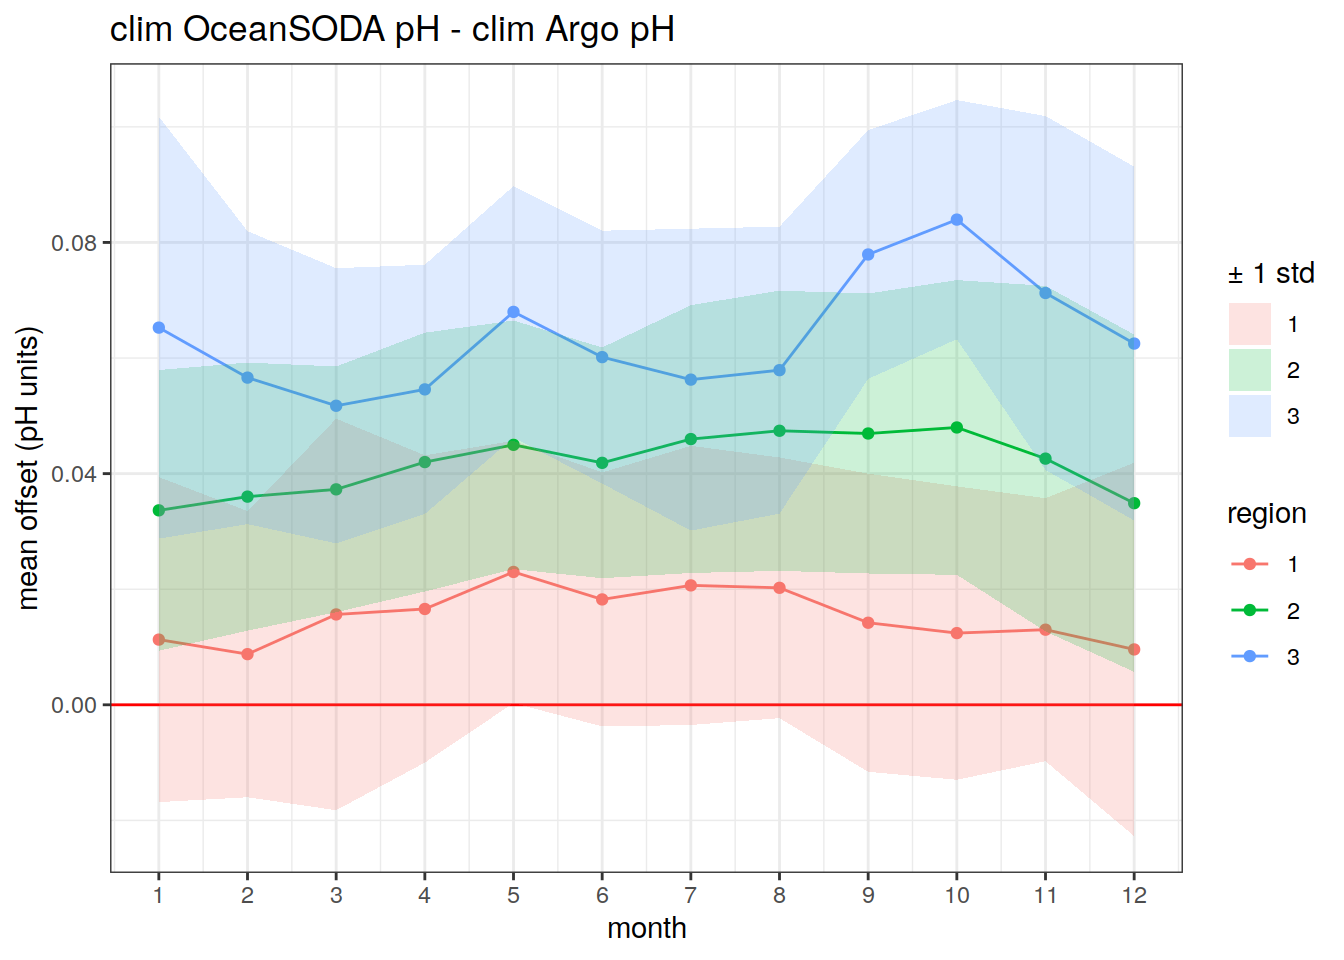
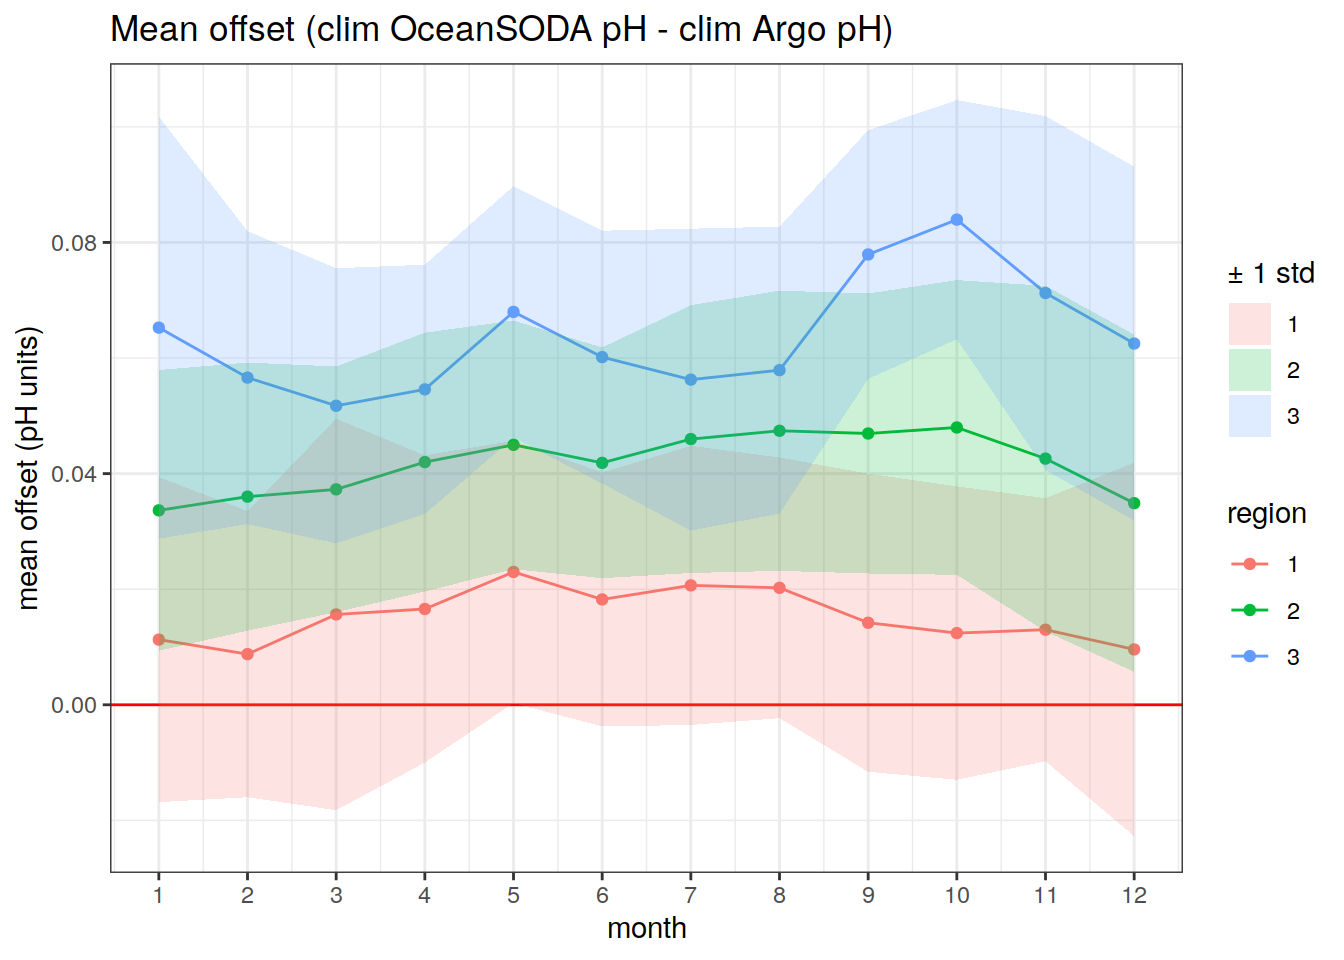
Build site.

Changed region(s): [[0.0625, 0.0, 0.6562, 0.0625]]

diff --git a/docs/oceanSODA_argo.html b/docs/oceanSODA_argo.html
@@ -411,7 +411,7 @@ div.tocify {
 
 <h1 class="title toc-ignore">OceanSODA-Argo pH</h1>
 <h4 class="author">Pasqualina Vonlanthen &amp; Jens Daniel Müller</h4>
-<h4 class="date">02 December, 2021</h4>
+<h4 class="date">03 December, 2021</h4>
 
 </div>
 
@@ -436,7 +436,7 @@ div.tocify {
 <div class="tab-content">
 <div id="summary" class="tab-pane fade in active">
 <p>
-<strong>Last updated:</strong> 2021-12-02
+<strong>Last updated:</strong> 2021-12-03
 </p>
 <p>
 <strong>Checks:</strong> <span class="glyphicon glyphicon-ok text-success" aria-hidden="true"></span> 7 <span class="glyphicon glyphicon-exclamation-sign text-danger" aria-hidden="true"></span> 0
@@ -527,16 +527,16 @@ This reproducible <a href="http://rmarkdown.rstudio.com">R Markdown</a> analysis
 <div class="panel panel-default">
 <div class="panel-heading">
 <p class="panel-title">
-<a data-toggle="collapse" data-parent="#workflowr-checks" href="#strongRepositoryversionstrongahrefhttpsgithubcomjensdanielmuellerbgcargorargodatatree65e4748680baee1e18ff2e579937c3cca9412d97targetblank65e4748a"> <span class="glyphicon glyphicon-ok text-success" aria-hidden="true"></span> <strong>Repository version:</strong> <a href="https://github.com/jens-daniel-mueller/bgc_argo_r_argodata/tree/65e4748680baee1e18ff2e579937c3cca9412d97" target="_blank">65e4748</a> </a>
+<a data-toggle="collapse" data-parent="#workflowr-checks" href="#strongRepositoryversionstrongahrefhttpsgithubcomjensdanielmuellerbgcargorargodatatree0829a920d98b0b61c8a8cb110df5ef423f434e88targetblank0829a92a"> <span class="glyphicon glyphicon-ok text-success" aria-hidden="true"></span> <strong>Repository version:</strong> <a href="https://github.com/jens-daniel-mueller/bgc_argo_r_argodata/tree/0829a920d98b0b61c8a8cb110df5ef423f434e88" target="_blank">0829a92</a> </a>
 </p>
 </div>
[2 lines of base64/hex data omitted]
 <div class="panel-body">
 <p>
 Great! You are using Git for version control. Tracking code development and connecting the code version to the results is critical for reproducibility.
 </p>
 <p>
-The results in this page were generated with repository version <a href="https://github.com/jens-daniel-mueller/bgc_argo_r_argodata/tree/65e4748680baee1e18ff2e579937c3cca9412d97" target="_blank">65e4748</a>. See the <em>Past versions</em> tab to see a history of the changes made to the R Markdown and HTML files.
+The results in this page were generated with repository version <a href="https://github.com/jens-daniel-mueller/bgc_argo_r_argodata/tree/0829a920d98b0b61c8a8cb110df5ef423f434e88" target="_blank">0829a92</a>. See the <em>Past versions</em> tab to see a history of the changes made to the R Markdown and HTML files.
 </p>
 <p>
 Note that you need to be careful to ensure that all relevant files for the analysis have been committed to Git prior to generating the results (you can use <code>wflow_publish</code> or <code>wflow_git_commit</code>). workflowr only checks the R Markdown file, but you know if there are other scripts or data files that it depends on. Below is the status of the Git repository when the results were generated:
@@ -590,6 +590,40 @@ Message
 </tr>
 </thead>
 <tbody>
+<tr>
+<td>
+Rmd
+</td>
+<td>
+<a href="https://github.com/jens-daniel-mueller/bgc_argo_r_argodata/blob/0829a920d98b0b61c8a8cb110df5ef423f434e88/analysis/oceanSODA_argo.Rmd" target="_blank">0829a92</a>
+</td>
+<td>
+pasqualina-vonlanthendinenna
+</td>
+<td>
+2021-12-03
+</td>
+<td>
+updated offsets and divergent color scales
+</td>
+</tr>
+<tr>
+<td>
+html
+</td>
+<td>
+<a href="https://rawcdn.githack.com/jens-daniel-mueller/bgc_argo_r_argodata/6a5024ee564d229ed2a8fbd6e7fb6d457ac1af27/docs/oceanSODA_argo.html" target="_blank">6a5024e</a>
+</td>
+<td>
+pasqualina-vonlanthendinenna
+</td>
+<td>
+2021-12-02
+</td>
+<td>
+Build site.
+</td>
+</tr>
 <tr>
 <td>
 Rmd
@@ -820,7 +854,7 @@ argo &lt;- read_rds(file = paste0(path_argo_preprocessed, &quot;/ph_surface_1x1.
          -c(direction:platform_type),
          -c(firmware_version, wmo_inst_type, positioning_system, config_mission_number))
 
-# for plotting later, load in region and coastline information 
+# for plotting later, load in region and coastline information  
 region_masks_all_seamask_2x2 &lt;- read_rds(file = paste0(
   path_argo_preprocessed, &quot;/region_masks_all_seamask_2x2.rds&quot;))
 
@@ -1331,6 +1365,17 @@ Date
 <tbody>
 <tr>
 <td>
+<a href="https://github.com/jens-daniel-mueller/bgc_argo_r_argodata/blob/6a5024ee564d229ed2a8fbd6e7fb6d457ac1af27/docs/figure/oceanSODA_argo.Rmd/plot_monthly_timeseries-1.png" target="_blank">6a5024e</a>
+</td>
+<td>
+pasqualina-vonlanthendinenna
+</td>
+<td>
+2021-12-02
+</td>
+</tr>
+<tr>
+<td>
 <a href="https://github.com/jens-daniel-mueller/bgc_argo_r_argodata/blob/10ddefb1a0429818d296443af9fc76122adc5816/docs/figure/oceanSODA_argo.Rmd/plot_monthly_timeseries-1.png" target="_blank">10ddefb</a>
 </td>
 <td>
@@ -1462,6 +1507,17 @@ Date
 <tbody>
 <tr>
 <td>
+<a href="https://github.com/jens-daniel-mueller/bgc_argo_r_argodata/blob/6a5024ee564d229ed2a8fbd6e7fb6d457ac1af27/docs/figure/oceanSODA_argo.Rmd/calculate_in_situ_offset-1.png" target="_blank">6a5024e</a>
+</td>
+<td>
+pasqualina-vonlanthendinenna
+</td>
+<td>
+2021-12-02
+</td>
+</tr>
+<tr>
+<td>
 <a href="https://github.com/jens-daniel-mueller/bgc_argo_r_argodata/blob/10ddefb1a0429818d296443af9fc76122adc5816/docs/figure/oceanSODA_argo.Rmd/calculate_in_situ_offset-1.png" target="_blank">10ddefb</a>
 </td>
 <td>
@@ -1497,6 +1553,31 @@ pasqualina-vonlanthendinenna
 </table>
 </div>
 </div>
+<p>Mean offset between in-situ OceanSODA pH and in-situ Argo pH</p>
+<pre class="r"><code>mean_insitu_offset &lt;- argo_OceanSODA_SO %&gt;%
+  group_by(date, value) %&gt;% 
+  summarise(mean_offset = mean(offset, na.rm = TRUE),
+            std_offset = sd(offset, na.rm = TRUE))</code></pre>
+<pre><code>`summarise()` has grouped output by &#39;date&#39;. You can override using the `.groups` argument.</code></pre>
+<pre class="r"><code>mean_insitu_offset %&gt;%
+  drop_na() %&gt;%
+  ggplot() +
+  geom_hline(yintercept = 0, size = 1, col = &#39;red&#39;)+
+  geom_point(aes(x = date, y = mean_offset, group = value, col = value), size = 0.7, pch = 19) +
+  geom_line(aes(x = date, y = mean_offset, group = value, col = value))+
+  geom_ribbon(aes(x = date, 
+                  ymin = mean_offset-std_offset, 
+                  ymax = mean_offset+std_offset, 
+                  group = value, 
+                  fill =value),
+              alpha = 0.2)+
+  # facet_wrap(~year)+
+  labs(title = &#39;Mean offset (in situ oceanSODA pH - in situ Argo pH)&#39;,
+       x = &#39;date&#39;,
+       y = &#39;offset (pH units)&#39;,
+       col = &#39;region&#39;,
+       fill = &#39;± 1 std&#39;)</code></pre>
+<p><img src="figure/oceanSODA_argo.Rmd/mean_in_situ_offset-1.png" width="672" style="display: block; margin: auto;" /></p>
 <p>Offset between climatological Argo and climatological OceanSODA pH:</p>
 <pre class="r"><code># Offset between climatological argo and climatological OceanSODA pH 
 
@@ -1532,6 +1613,17 @@ Date
 </tr>
 </thead>
 <tbody>
+<tr>
+<td>
+<a href="https://github.com/jens-daniel-mueller/bgc_argo_r_argodata/blob/6a5024ee564d229ed2a8fbd6e7fb6d457ac1af27/docs/figure/oceanSODA_argo.Rmd/calculate_clim_offset-1.png" target="_blank">6a5024e</a>
+</td>
+<td>
+pasqualina-vonlanthendinenna
+</td>
+<td>
+2021-12-02
+</td>
+</tr>
 <tr>
 <td>
 <a href="https://github.com/jens-daniel-mueller/bgc_argo_r_argodata/blob/10ddefb1a0429818d296443af9fc76122adc5816/docs/figure/oceanSODA_argo.Rmd/calculate_clim_offset-1.png" target="_blank">10ddefb</a>
@@ -1570,18 +1662,19 @@ pasqualina-vonlanthendinenna
 </div>
 </div>
 <p>Mean offset between climatological OceanSODA pH and climatological Argo pH</p>
-<pre class="r"><code>mean_offset &lt;- inner_join(argo_OceanSODA_SO_clim, region_masks_all_1x1_SO) %&gt;% 
+<pre class="r"><code>mean_clim_offset &lt;- inner_join(argo_OceanSODA_SO_clim, region_masks_all_1x1_SO) %&gt;% 
   group_by(month, value) %&gt;% 
   summarise(mean_offset_clim = mean(offset_clim, na.rm = TRUE),
             std_offset_clim = sd(offset_clim, na.rm = TRUE))</code></pre>
 <pre><code>Joining, by = c(&quot;lon&quot;, &quot;lat&quot;)</code></pre>
 <pre><code>`summarise()` has grouped output by &#39;month&#39;. You can override using the `.groups` argument.</code></pre>
-<pre class="r"><code>mean_offset %&gt;% 
+<pre class="r"><code>mean_clim_offset %&gt;% 
   ggplot()+
   geom_point(aes(x = month, y = mean_offset_clim, col = value))+
   geom_line(aes(x = month, y = mean_offset_clim, col = value))+
   geom_hline(yintercept = 0, col = &#39;red&#39;) +
-  geom_ribbon(aes(x = month, ymin = mean_offset_clim - std_offset_clim, 
+  geom_ribbon(aes(x = month, 
+                  ymin = mean_offset_clim - std_offset_clim, 
                   ymax = mean_offset_clim + std_offset_clim,
                   group = value, 
                   fill = value), 
@@ -1589,10 +1682,47 @@ pasqualina-vonlanthendinenna
   scale_x_continuous(breaks = seq(1, 12, 1)) +
   labs(x = &#39;month&#39;,
        y = &#39;mean offset (pH units)&#39;,
-       title = &#39;clim OceanSODA pH - clim Argo pH&#39;, 
+       title = &#39;Mean offset (clim OceanSODA pH - clim Argo pH)&#39;, 
        col = &#39;region&#39;,
        fill = &#39;± 1 std&#39;) </code></pre>
 <p><img src="figure/oceanSODA_argo.Rmd/climatological_offset_all_years-1.png" width="672" style="display: block; margin: auto;" /></p>
+<p>
+<button type="button" class="btn btn-default btn-xs btn-workflowr btn-workflowr-fig" data-toggle="collapse" data-target="#fig-climatological_offset_all_years-1">
+Past versions of climatological_offset_all_years-1.png
+</button>
+</p>
+<div id="fig-climatological_offset_all_years-1" class="collapse">
+<div class="table-responsive">
+<table class="table table-condensed table-hover">
+<thead>
+<tr>
+<th>
+Version
+</th>
+<th>
+Author
+</th>
+<th>
+Date
+</th>
+</tr>
+</thead>
+<tbody>
+<tr>
+<td>
+<a href="https://github.com/jens-daniel-mueller/bgc_argo_r_argodata/blob/6a5024ee564d229ed2a8fbd6e7fb6d457ac1af27/docs/figure/oceanSODA_argo.Rmd/climatological_offset_all_years-1.png" target="_blank">6a5024e</a>
+</td>
+<td>
+pasqualina-vonlanthendinenna
+</td>
+<td>
+2021-12-02
+</td>
+</tr>
+</tbody>
+</table>
+</div>
+</div>
 <p>Offset between climatological OceanSODA pH and climatological Argo pH</p>
 <pre class="r"><code># bin the offsets for better plotting  
 # plot the offsets on a map of the Southern Ocean
@@ -1600,8 +1730,7 @@ pasqualina-vonlanthendinenna
 argo_OceanSODA_SO_clim_2x2 &lt;- argo_OceanSODA_SO_clim_2x2 %&gt;% 
   mutate(offset_clim_binned = 
            cut(offset_clim, 
-               breaks = c(min(offset_clim, na.rm = TRUE), -0.025, -0.005, 0.000, 0.005, 0.025, 0.035, 0.05, max(offset_clim, na.rm = TRUE)), 
-               labels = c(-0.030, -0.010, -0.0025, 0.0025, 0.010, 0.030, 0.04, 0.055)), 
+               breaks = c(min(offset_clim, na.rm = TRUE), -0.025, -0.005, 0.000, 0.005, 0.025, 0.035, 0.05, max(offset_clim, na.rm = TRUE))),   # bin the offsets into intervals (create a discrete variable instead of continuous)
          offset_clim_binned = as.factor(as.character(offset_clim_binned))) %&gt;% 
   drop_na()
 
@@ -1609,14 +1738,7 @@ map +
   geom_tile(data = argo_OceanSODA_SO_clim_2x2,
             aes(lon, lat, fill = offset_clim_binned)) +
   lims(y = c(-85, -30)) +
-  scale_fill_discrete() +
-  # binned_scale(aes(lon, lat, fill = offset_clim), 
-  #              scale_name = &#39;offset&#39;,
-  #              palette = scale_fill_divergent_discretised(),
-  #              name = &#39;offset (pH units)&#39;,
-  #              breaks = c(-Inf, -0.025, -0.005, 0.000, 0.005, 0.025, Inf),
-  #              labels = c(-0.030, -0.025, -0.005, 0.00, 0.005, 0.025, 0.030), 
-  #              limits = NULL) +
+  scale_fill_brewer(palette = &#39;RdBu&#39;, drop = FALSE) +
   labs(x = &#39;lon&#39;,
        y = &#39;lat&#39;,
        fill = &#39;offset (pH units)&#39;,
@@ -1649,6 +1771,17 @@ Date
 </tr>
 </thead>
 <tbody>
+<tr>
+<td>
+<a href="https://github.com/jens-daniel-mueller/bgc_argo_r_argodata/blob/6a5024ee564d229ed2a8fbd6e7fb6d457ac1af27/docs/figure/oceanSODA_argo.Rmd/map_climatological_offset-1.png" target="_blank">6a5024e</a>
+</td>
+<td>
+pasqualina-vonlanthendinenna
+</td>
+<td>
+2021-12-02
+</td>
+</tr>
 <tr>
 <td>
 <a href="https://github.com/jens-daniel-mueller/bgc_argo_r_argodata/blob/10ddefb1a0429818d296443af9fc76122adc5816/docs/figure/oceanSODA_argo.Rmd/map_climatological_offset-1.png" target="_blank">10ddefb</a>
@@ -1694,7 +1827,7 @@ pasqualina-vonlanthendinenna
                     linejoin = &#39;mitre&#39;,
                     col = &#39;transparent&#39;,
                     detail = 60)+
-  scale_fill_discrete()+
+  scale_fill_brewer(palette = &#39;RdBu&#39;, drop = FALSE)+
   theme(legend.position = &#39;right&#39;)+
   labs(x = &#39;lon&#39;,
        y = &#39;lat&#39;,
@@ -1736,6 +1869,17 @@ Date
 </tr>
 </thead>
 <tbody>
+<tr>
+<td>
+<a href="https://github.com/jens-daniel-mueller/bgc_argo_r_argodata/blob/6a5024ee564d229ed2a8fbd6e7fb6d457ac1af27/docs/figure/oceanSODA_argo.Rmd/map_climatological_offsets_polar_map-1.png" target="_blank">6a5024e</a>
+</td>
+<td>
+pasqualina-vonlanthendinenna
+</td>
+<td>
+2021-12-02
+</td>
+</tr>
 <tr>
 <td>
 <a href="https://github.com/jens-daniel-mueller/bgc_argo_r_argodata/blob/10ddefb1a0429818d296443af9fc76122adc5816/docs/figure/oceanSODA_argo.Rmd/map_climatological_offsets_polar_map-1.png" target="_blank">10ddefb</a>
@@ -1809,34 +1953,34 @@ other attached packages:
 
 loaded via a namespace (and not attached):
  [1] smoothr_0.1.2         fs_1.5.0              sf_1.0-2             
- [4] httr_1.4.2            rprojroot_2.0.2       tools_4.0.3          
- [7] backports_1.1.10      bslib_0.2.5.1         utf8_1.2.2           
-[10] rgdal_1.5-18          R6_2.5.1              KernSmooth_2.23-17   
-[13] rgeos_0.5-5           DBI_1.1.1             colorspace_2.0-2     
-[16] raster_3.4-5          withr_2.4.2           sp_1.4-4             
-[19] tidyselect_1.1.0      compiler_4.0.3        git2r_0.27.1         
-[22] cli_3.0.1             rvest_0.3.6           RNetCDF_2.4-2        
-[25] xml2_1.3.2            labeling_0.4.2        sass_0.4.0           
-[28] checkmate_2.0.0       scales_1.1.1          classInt_0.4-3       
-[31] ggOceanMapsData_1.0.1 proxy_0.4-26          digest_0.6.27        
-[34] rmarkdown_2.10        pkgconfig_2.0.3       htmltools_0.5.1.1    
-[37] highr_0.8             dbplyr_1.4.4          rlang_0.4.11         
-[40] readxl_1.3.1          rstudioapi_0.13       farver_2.1.0         
-[43] jquerylib_0.1.4       generics_0.1.0        jsonlite_1.7.2       
-[46] magrittr_2.0.1        Rcpp_1.0.7            munsell_0.5.0        
-[49] fansi_0.5.0           abind_1.4-5           lifecycle_1.0.0      
-[52] stringi_1.5.3         whisker_0.4           yaml_2.2.1           
-[55] grid_4.0.3            blob_1.2.1            parallel_4.0.3       
-[58] promises_1.2.0.1      crayon_1.4.1          lattice_0.20-41      
-[61] haven_2.3.1           stars_0.5-2           hms_0.5.3            
-[64] knitr_1.33            pillar_1.6.2          codetools_0.2-16     
-[67] reprex_0.3.0          glue_1.4.2            evaluate_0.14        
-[70] data.table_1.14.0     modelr_0.1.8          vctrs_0.3.8          
-[73] httpuv_1.6.2          cellranger_1.1.0      gtable_0.3.0         
-[76] assertthat_0.2.1      xfun_0.25             lwgeom_0.2-5         
-[79] broom_0.7.9           e1071_1.7-8           later_1.3.0          
-[82] viridisLite_0.4.0     class_7.3-17          units_0.7-2          
-[85] ellipsis_0.3.2       </code></pre>
+ [4] RColorBrewer_1.1-2    httr_1.4.2            rprojroot_2.0.2      
+ [7] tools_4.0.3           backports_1.1.10      bslib_0.2.5.1        
+[10] utf8_1.2.2            rgdal_1.5-18          R6_2.5.1             
+[13] KernSmooth_2.23-17    rgeos_0.5-5           DBI_1.1.1            
+[16] colorspace_2.0-2      raster_3.4-5          withr_2.4.2          
+[19] sp_1.4-4              tidyselect_1.1.0      compiler_4.0.3       
+[22] git2r_0.27.1          cli_3.0.1             rvest_0.3.6          
+[25] RNetCDF_2.4-2         xml2_1.3.2            labeling_0.4.2       
+[28] sass_0.4.0            checkmate_2.0.0       scales_1.1.1         
+[31] classInt_0.4-3        ggOceanMapsData_1.0.1 proxy_0.4-26         
+[34] digest_0.6.27         rmarkdown_2.10        pkgconfig_2.0.3      
+[37] htmltools_0.5.1.1     highr_0.8             dbplyr_1.4.4         
+[40] rlang_0.4.11          readxl_1.3.1          rstudioapi_0.13      
+[43] farver_2.1.0          jquerylib_0.1.4       generics_0.1.0       
+[46] jsonlite_1.7.2        magrittr_2.0.1        Rcpp_1.0.7           
+[49] munsell_0.5.0         fansi_0.5.0           abind_1.4-5          
+[52] lifecycle_1.0.0       stringi_1.5.3         whisker_0.4          
+[55] yaml_2.2.1            grid_4.0.3            blob_1.2.1           
+[58] parallel_4.0.3        promises_1.2.0.1      crayon_1.4.1         
+[61] lattice_0.20-41       haven_2.3.1           stars_0.5-2          
+[64] hms_0.5.3             knitr_1.33            pillar_1.6.2         
+[67] codetools_0.2-16      reprex_0.3.0          glue_1.4.2           
+[70] evaluate_0.14         data.table_1.14.0     modelr_0.1.8         
+[73] vctrs_0.3.8           httpuv_1.6.2          cellranger_1.1.0     
+[76] gtable_0.3.0          assertthat_0.2.1      xfun_0.25            
+[79] lwgeom_0.2-5          broom_0.7.9           e1071_1.7-8          
+[82] later_1.3.0           viridisLite_0.4.0     class_7.3-17         
+[85] units_0.7-2           ellipsis_0.3.2       </code></pre>
 </div>
 </div>
 </div>
